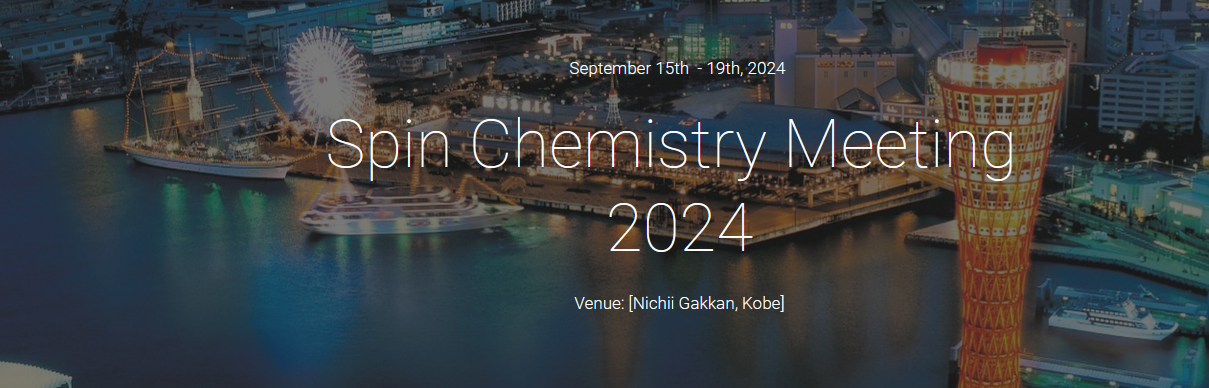
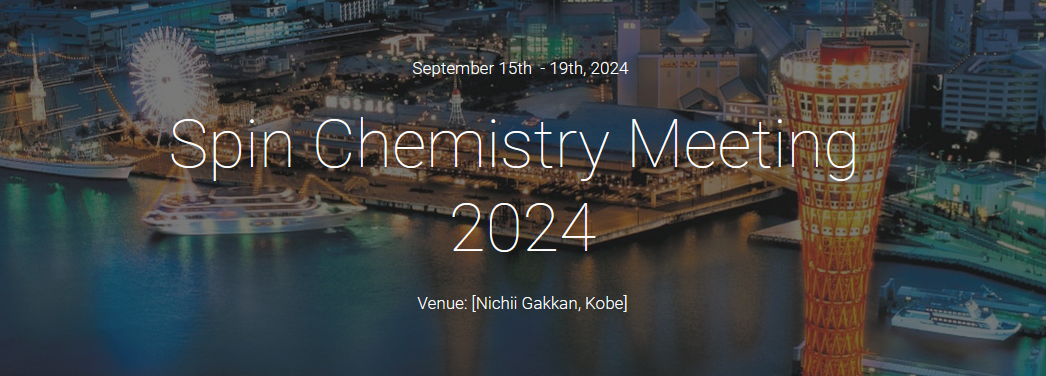
Change SCM24 photo to jpg

diff --git a/announcements/_posts/2022-10-02-SCM24.md b/announcements/_posts/2022-10-02-SCM24.md
@@ -13,7 +13,7 @@ The next Spin Chemistry Meeting has been announced!
 
 The 18th Spin Chemistry Meeting will be held in Kobe, Japan on the 15th to 19th September, 2024.
 
-![SCM24 Screenshot](assets/img/scm-2024-photo.png){:.tail width="1000" height="500" loading="lazy"}
+![SCM24 Screenshot](assets/img/scm-2024-photo.jpg){:.tail width="1000" height="500" loading="lazy"}
 
 Click [here](https://sites.google.com/gsuite.kobe-u.ac.jp/scm2024/home?authuser=0) for more details.
 

diff --git a/about.md b/about.md
@@ -37,6 +37,6 @@ outcome of their reactions.
 
 You can join our [Discord server](https://discord.io/spin-chemistry-community/)
 
-or join our mailing list for publication updates and job vacancies.
+or join our mailing list for updates on publications and job vacancies.
 
 
